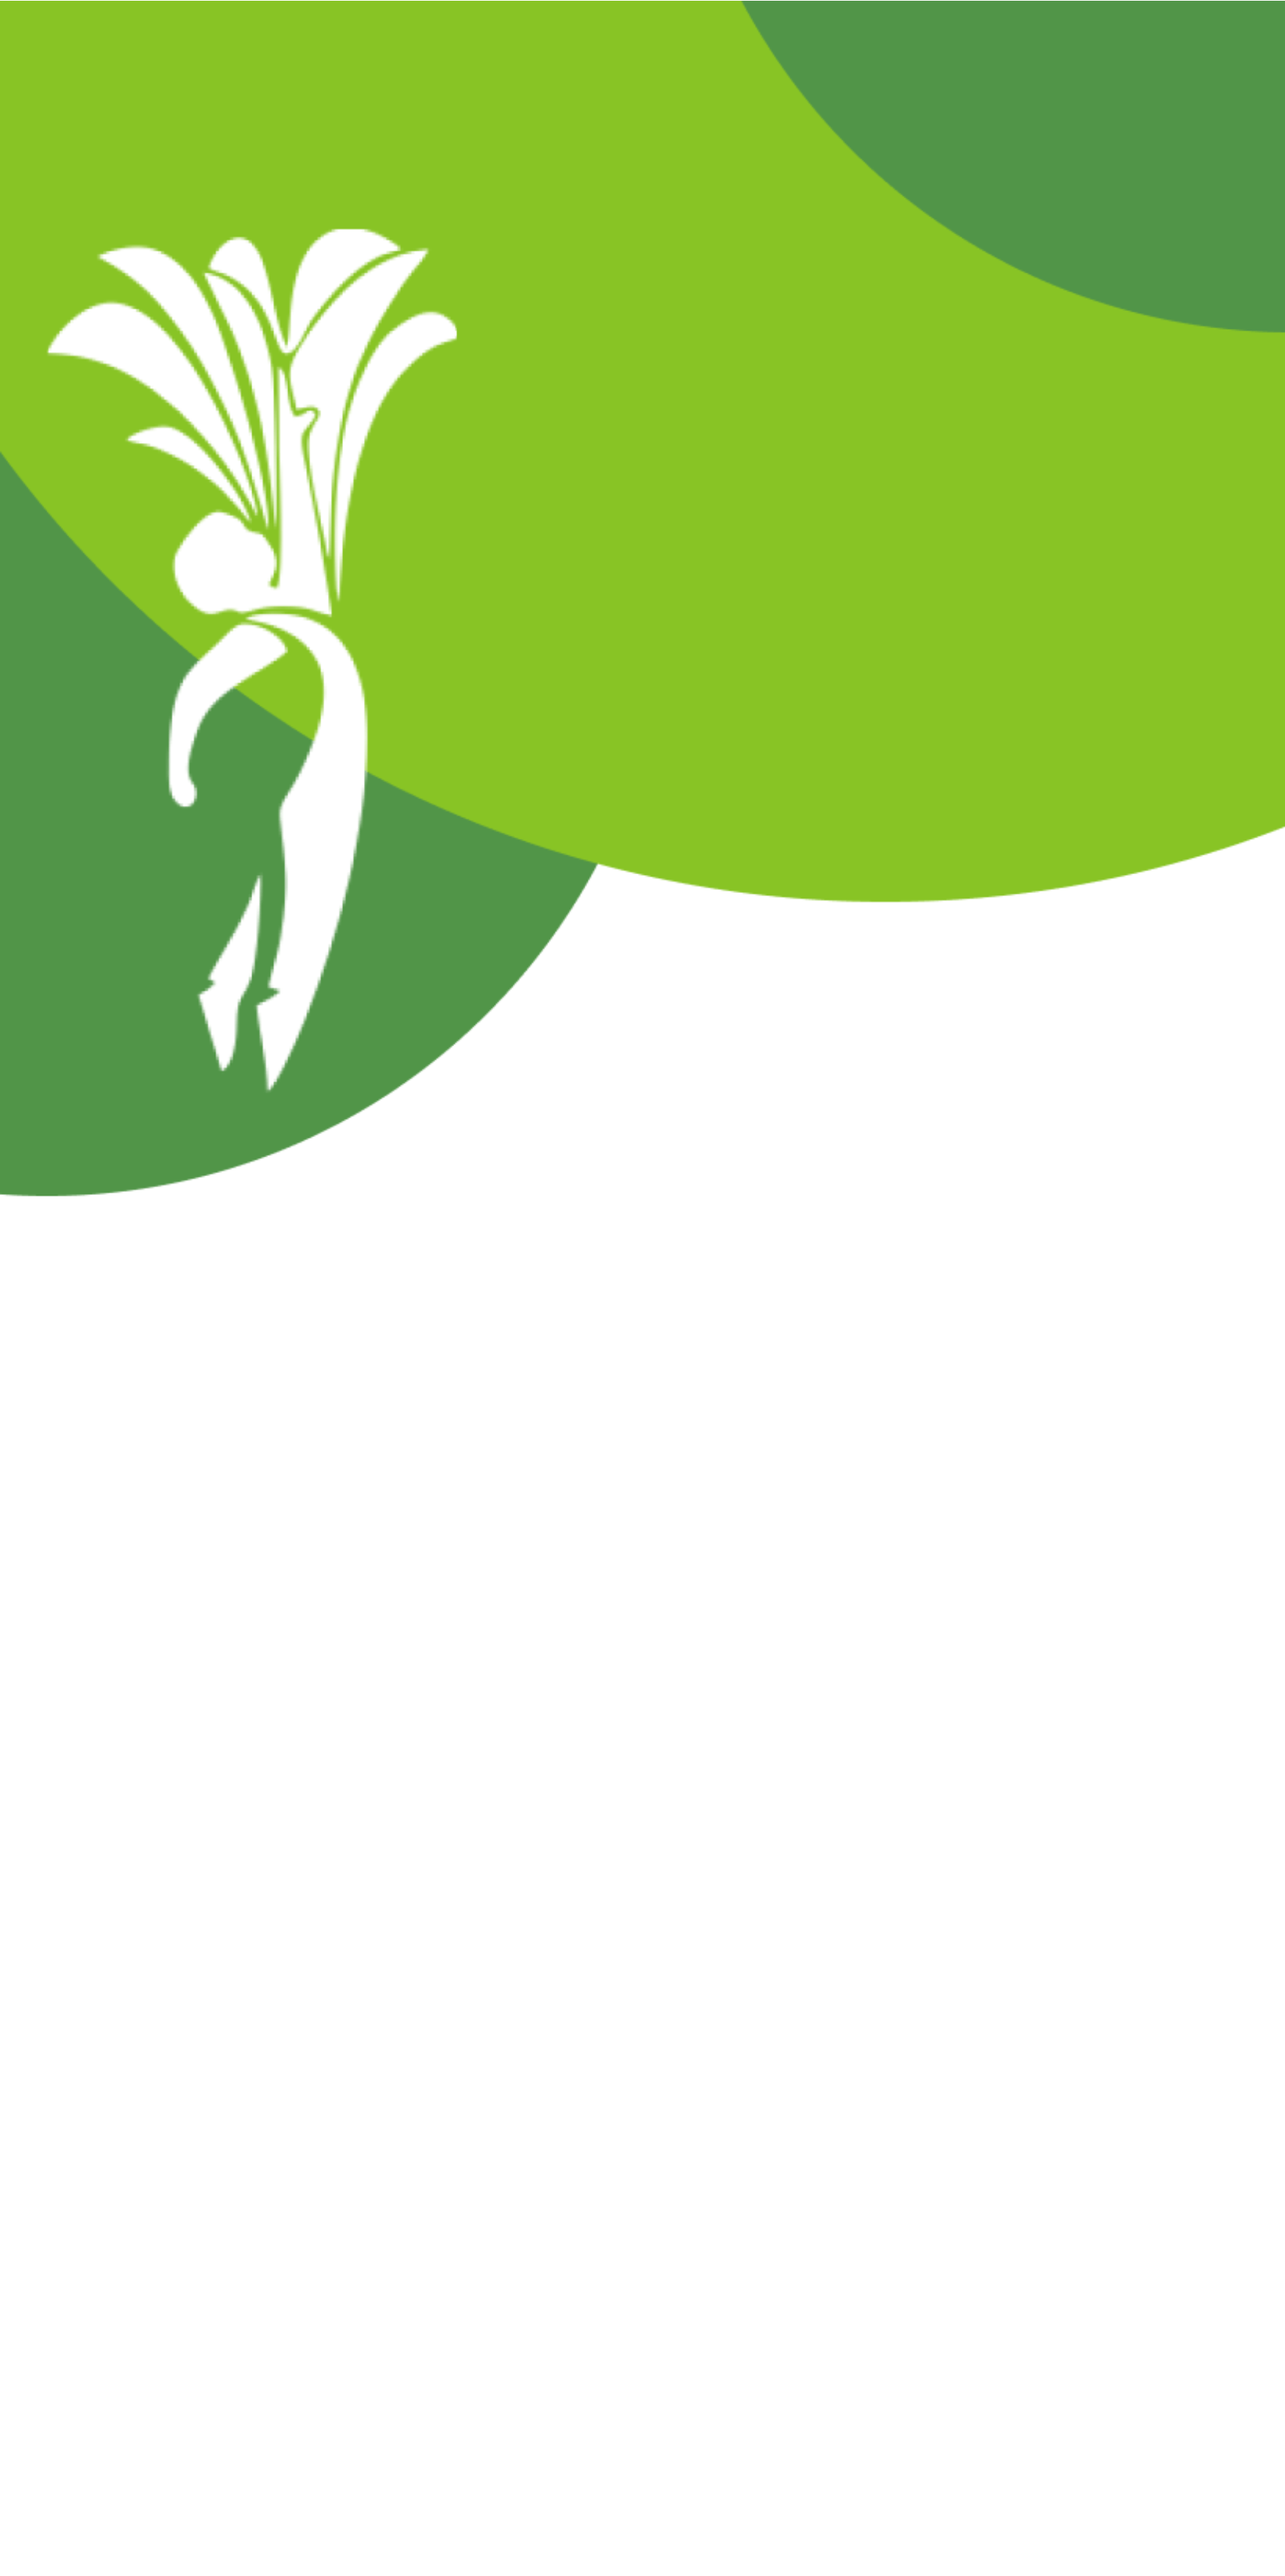
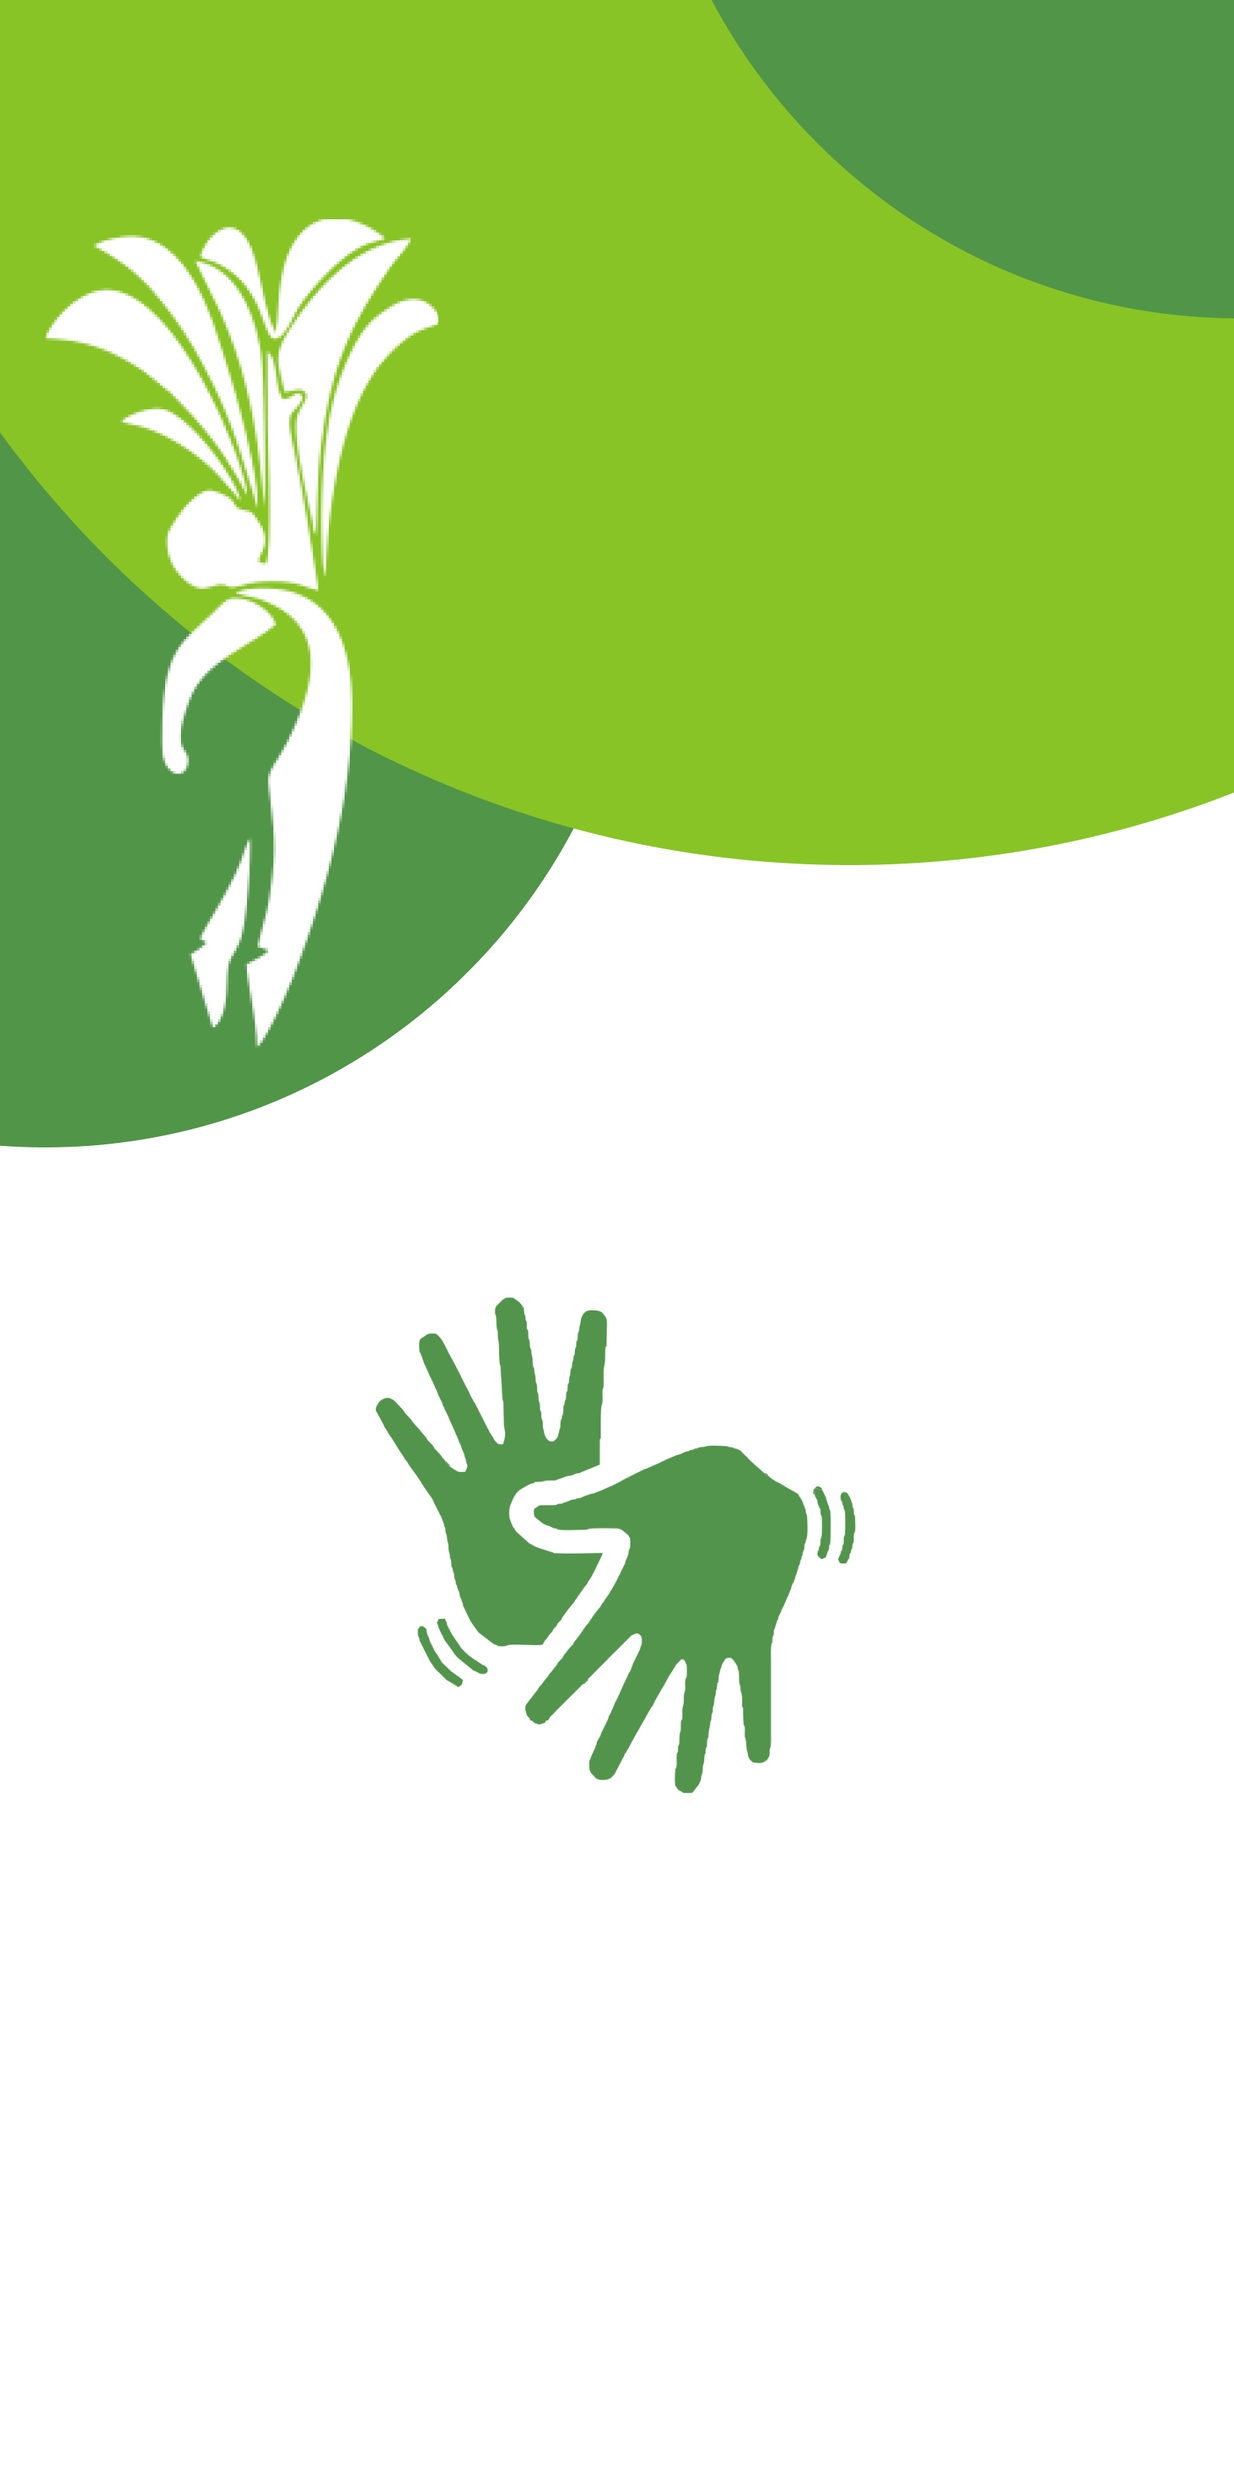
Atualização 06-10

Changed region(s): [[0.3102, 0.5267, 0.7135, 0.7436], [0.1551, 0.093, 0.2792, 0.2479], [0.2792, 0.093, 0.3102, 0.1549]]

diff --git a/src/pages/comoFunc/index.js b/src/pages/comoFunc/index.js
@@ -1,6 +1,6 @@
 //import liraries
 import React, { Component } from "react";
-import { View, Text, ImageBackground, StatusBar, TouchableOpacity } from "react-native";
+import { View, Text, ImageBackground, StatusBar, TouchableOpacity, ScrollView } from "react-native";
 import styles from "./styles";
 
 const comoFunc = ({ navigation }) => {
@@ -9,32 +9,43 @@ const comoFunc = ({ navigation }) => {
       source={require("../../assets/CFuncBG.png")}
       style={styles.image}
     >
-      <StatusBar barStyle="dark-content" />
+
       <View style={styles.boxTexto}>
-        <Text style={{ fontSize: 20, color: "#519548", textAlign:'justify'}}>
-          Lorem ipsum dolor sit amet, consectetur adipiscing elit. Ut tincidunt,
-          enim sed blandit dictum, ex nulla pulvinar neque, ut placerat libero
-          libero in lectus. Vestibulum pellentesque convallis volutpat.{"\n"}
-          {"\n"}
-          Curabitur sollicitudin orci turpis, finibus convallis orci molestie
-          vel. Aliquam in elit felis. Suspendisse scelerisque ante sit amet sem
-          pellentesque, quis euismod lectus tincidunt. Nam id metus nec ligula
-          porta consequat vitae ac velit. Quisque urna ex, rhoncus non fringilla
-          eget, fringilla consectetur diam. Sed laoreet cursus lacus, sed rutrum
-          enim malesuada eu. Nam turpis velit, commodo at luctus a, feugiat a
-          lacus. Sed accumsan vehicula nunc quis euismod.{"\n"}
-          {"\n"}
-          Nulla rhoncus ante at lacus dignissim, vel vulputate libero posuere.
-          Proin nulla tellus, mattis a posuere eu, eleifend non odio.
-          Pellentesque non nulla enim. Vivamus blandit euismod tellus.
-        </Text>
+        <ScrollView showsVerticalScrollIndicator={false} >
+          <Text style={{ fontSize: 20, color: "#519548", textAlign: 'justify' }}>
+
+
+            Em virtude das barreiras de comunicação existentes entre os profissionais de saúde e pacientes surdos,
+            foi desenvolvido um aplicativo de fácil manuseio e de ampla acessibilidade para atendimento ao surdo,
+            com o intuito de facilitar o diálogo terapêutico na Língua Brasileira de Sinais (Libras).{"\n"}
+            O aplicativo recebeu o nome de Hand Cure, e faz parte de um projeto de mestrado vinculado ao
+            Programa de Pós-Graduação Stricto Sensu em Biotecnologia em Saúde Humana e Animal no Centro
+            Universitário CESMAC-Maceió-Alagoas.{"\n"}{"\n"}
+
+            O dispositivo móvel funciona da seguinte forma:{"\n"}
+
+            Na chegada do paciente surdo à recepção dos serviços de saúde, o acolhimento realizado pelo 
+            profissional de saúde, será feito clica nos botões: Bom Dia, Boa Tarde ou Boa Noite."
+            Em seguida,
+            logo aparecerá um vídeo com essas saudações em libras. Posteriormente, o profissional de saúde
+            clica na tela referente a identificação pessoal, no qual constará os seguintes itens: identidade,
+            residência, telefone e se está acompanhado de alguém.{"\n"} Posteriormente, será coletada a informação
+            sobre o local da dor, por meio de um vídeo, solicitando que o paciente surdo aponte em bonecos
+            masculino ou feminino, expressos na tela do celular. Por último, será solicitado ao paciente
+            surdo que informe a intensidade da dor que está sentido, constando no aplicativo uma tela com
+            uma escala de dor universal (zero a dez) para o paciente surdo apontar.{"\n"} Dessa forma, mesmo sem
+            saber Libras serão obtidas informações preliminares para encaminhar o paciente surdo ao
+            especialista/tratamento adequado.{"\n"}{"\n"}
+
+          </Text>
+        </ScrollView>
       </View>
       <View style={styles.boxButton}>
-          <TouchableOpacity style={styles.botaoComecar} onPress={() => navigation.navigate('home')}>
-              <Text style={{fontSize:24, color:'#fff'}}>
-                  Começar
-              </Text>
-          </TouchableOpacity>
+        <TouchableOpacity style={styles.botaoComecar} onPress={() => navigation.navigate('home')}>
+          <Text style={{ fontSize: 24, color: '#fff' }}>
+            Começar
+          </Text>
+        </TouchableOpacity>
       </View>
     </ImageBackground>
   );

diff --git a/src/pages/home/index.js b/src/pages/home/index.js
@@ -17,7 +17,7 @@ const Home = () => {
     <View style={styles.container}>
       <View style={styles.boxVideo}>
         <WebView
-          style={{ flex: 1}}
+          style={{ flex: 1 }}
           javaScriptEnabled={true}
           source={{
             uri: `https://www.youtube.com/embed/${id}`,
@@ -34,7 +34,7 @@ const Home = () => {
           <Text style={{ fontSize: 22, marginBottom: 10 }}>
             Seja bem-vindo!
           </Text>
-          <Text style={{ fontSize: 16, color: "#c4c4c4" }}>
+          <Text style={{ fontSize: 16, color: "#519548" }}>
             Acolhimento na saúde
           </Text>
         </View>
@@ -67,7 +67,20 @@ const Home = () => {
             </TouchableOpacity>
           </View>
           <View style={styles.itemLista}>
-            <Text style={{ color: "#519548", fontSize: 20 }}>Pedir RG</Text>
+            <Text style={{ color: "#519548", fontSize: 20 }}>Boa Noite!</Text>
+            <TouchableOpacity
+              onPress={() => {
+                setid("NMK47NwDxzw");
+              }}
+            >
+              <Image
+                source={require("../../assets/btn_play.png")}
+                style={{ width: 35, height: 35 }}
+              />
+            </TouchableOpacity>
+          </View>
+          <View style={styles.itemLista}>
+            <Text style={{ color: "#519548", fontSize: 20 }}>Pedir identificação</Text>
             <TouchableOpacity
               onPress={() => {
                 setid("E6KQvHmFwbs");
@@ -109,19 +122,7 @@ const Home = () => {
               />
             </TouchableOpacity>
           </View>
-          <View style={styles.itemLista}>
-            <Text style={{ color: "#519548", fontSize: 20 }}>Boa Noite!</Text>
-            <TouchableOpacity
-              onPress={() => {
-                setid("NMK47NwDxzw");
-              }}
-            >
-              <Image
-                source={require("../../assets/btn_play.png")}
-                style={{ width: 35, height: 35 }}
-              />
-            </TouchableOpacity>
-          </View>
+
         </ScrollView>
       </View>
     </View>

diff --git a/src/pages/inicio/index.js b/src/pages/inicio/index.js
@@ -7,7 +7,7 @@ const Inicio = ({navigation}) => {
     return (
         <ImageBackground source={require('../../assets/InicioBg.png')} style={styles.image}>
             <View style={styles.boxTitulo}>
-                <Text style={styles.textoTitulo}>Libras</Text>
+                <Text style={styles.textoTitulo}>Hand Cure</Text>
             </View>
             <View style={styles.boxButton}>
                 <TouchableOpacity style={styles.botaoComoFunciona} onPress={() => navigation.navigate('comoFunc')}>  

diff --git a/App.js b/App.js
@@ -14,7 +14,7 @@ const Stack = createStackNavigator();
 export default function App({ navigation }) {
   return (
     <NavigationContainer>
-      <Stack.Navigator initialRouteName="splash">
+      <Stack.Navigator initialRouteName="inicio">
         <Stack.Screen
           name="inicio"
           component={Inicio}

diff --git a/src/pages/inicio/styles.js b/src/pages/inicio/styles.js
@@ -14,7 +14,7 @@ const styles = StyleSheet.create({
     },
     textoTitulo:{
         color:"#fff",
-        fontSize:70,
+        fontSize:30,
         fontWeight: "bold",
     },
     boxButton:{
